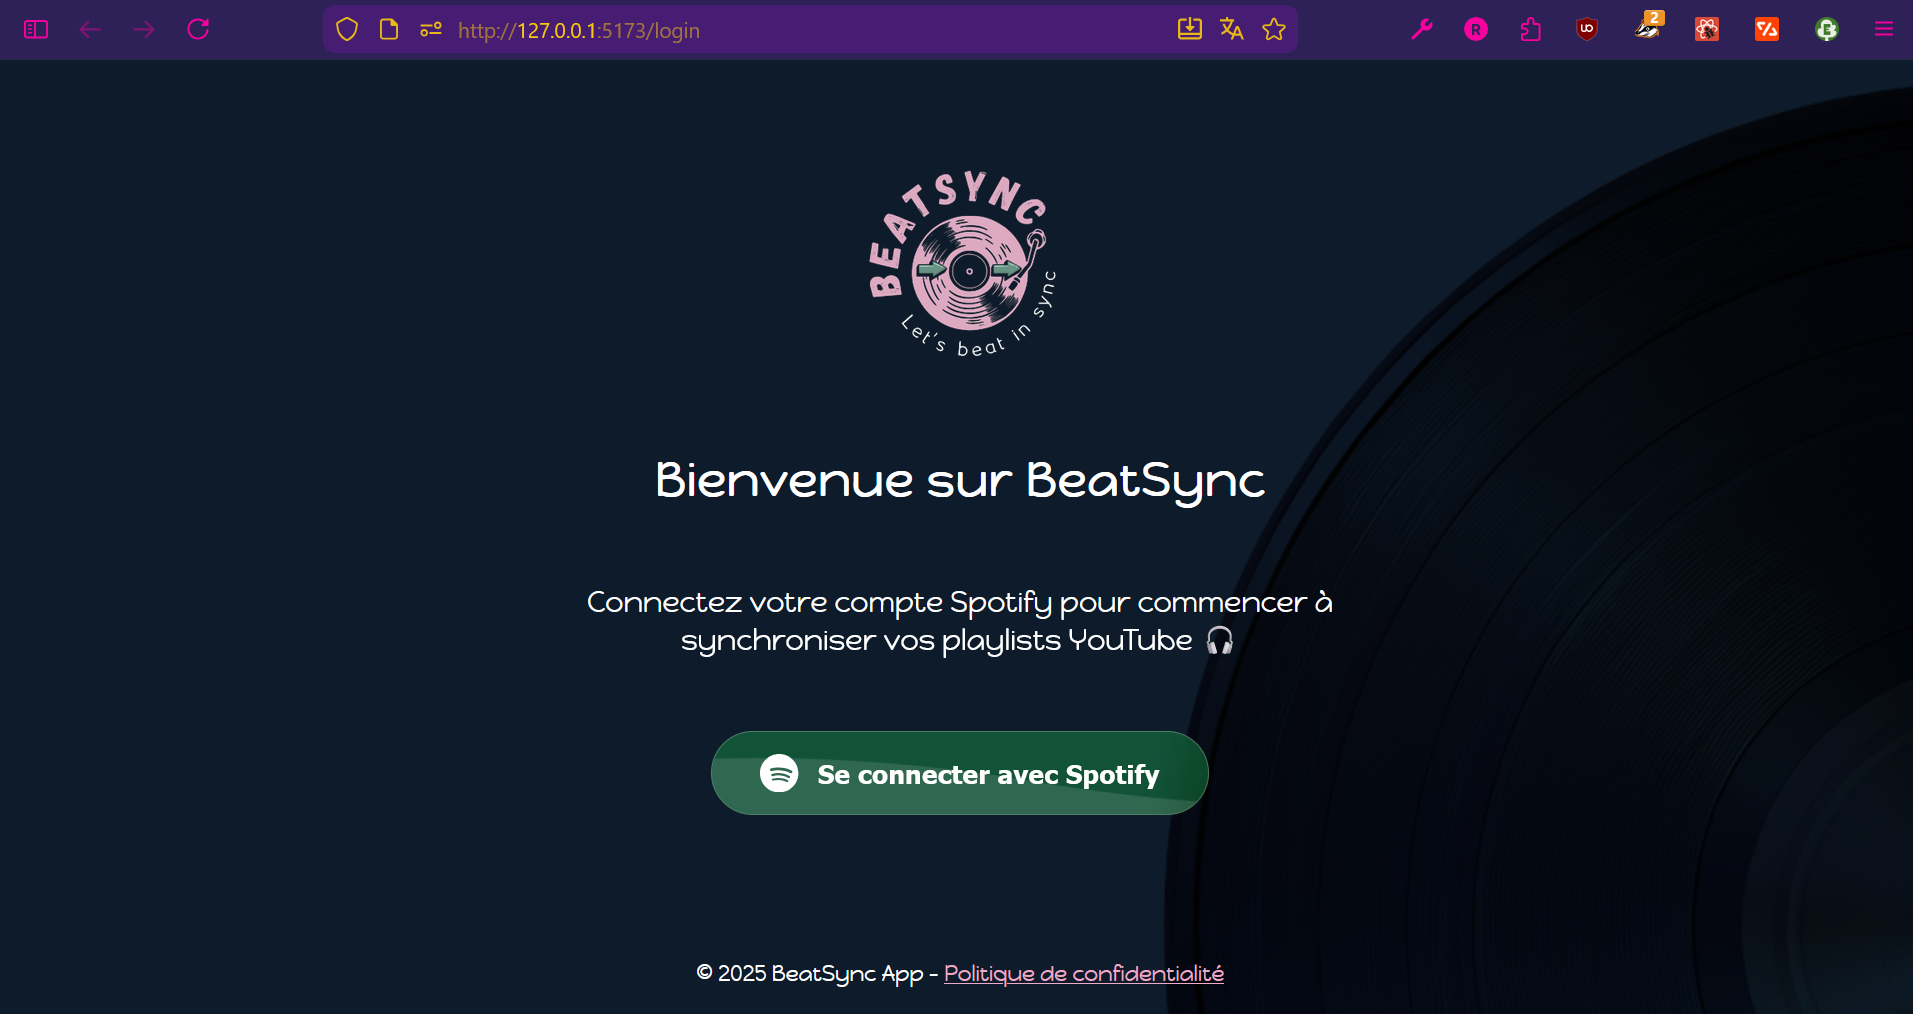
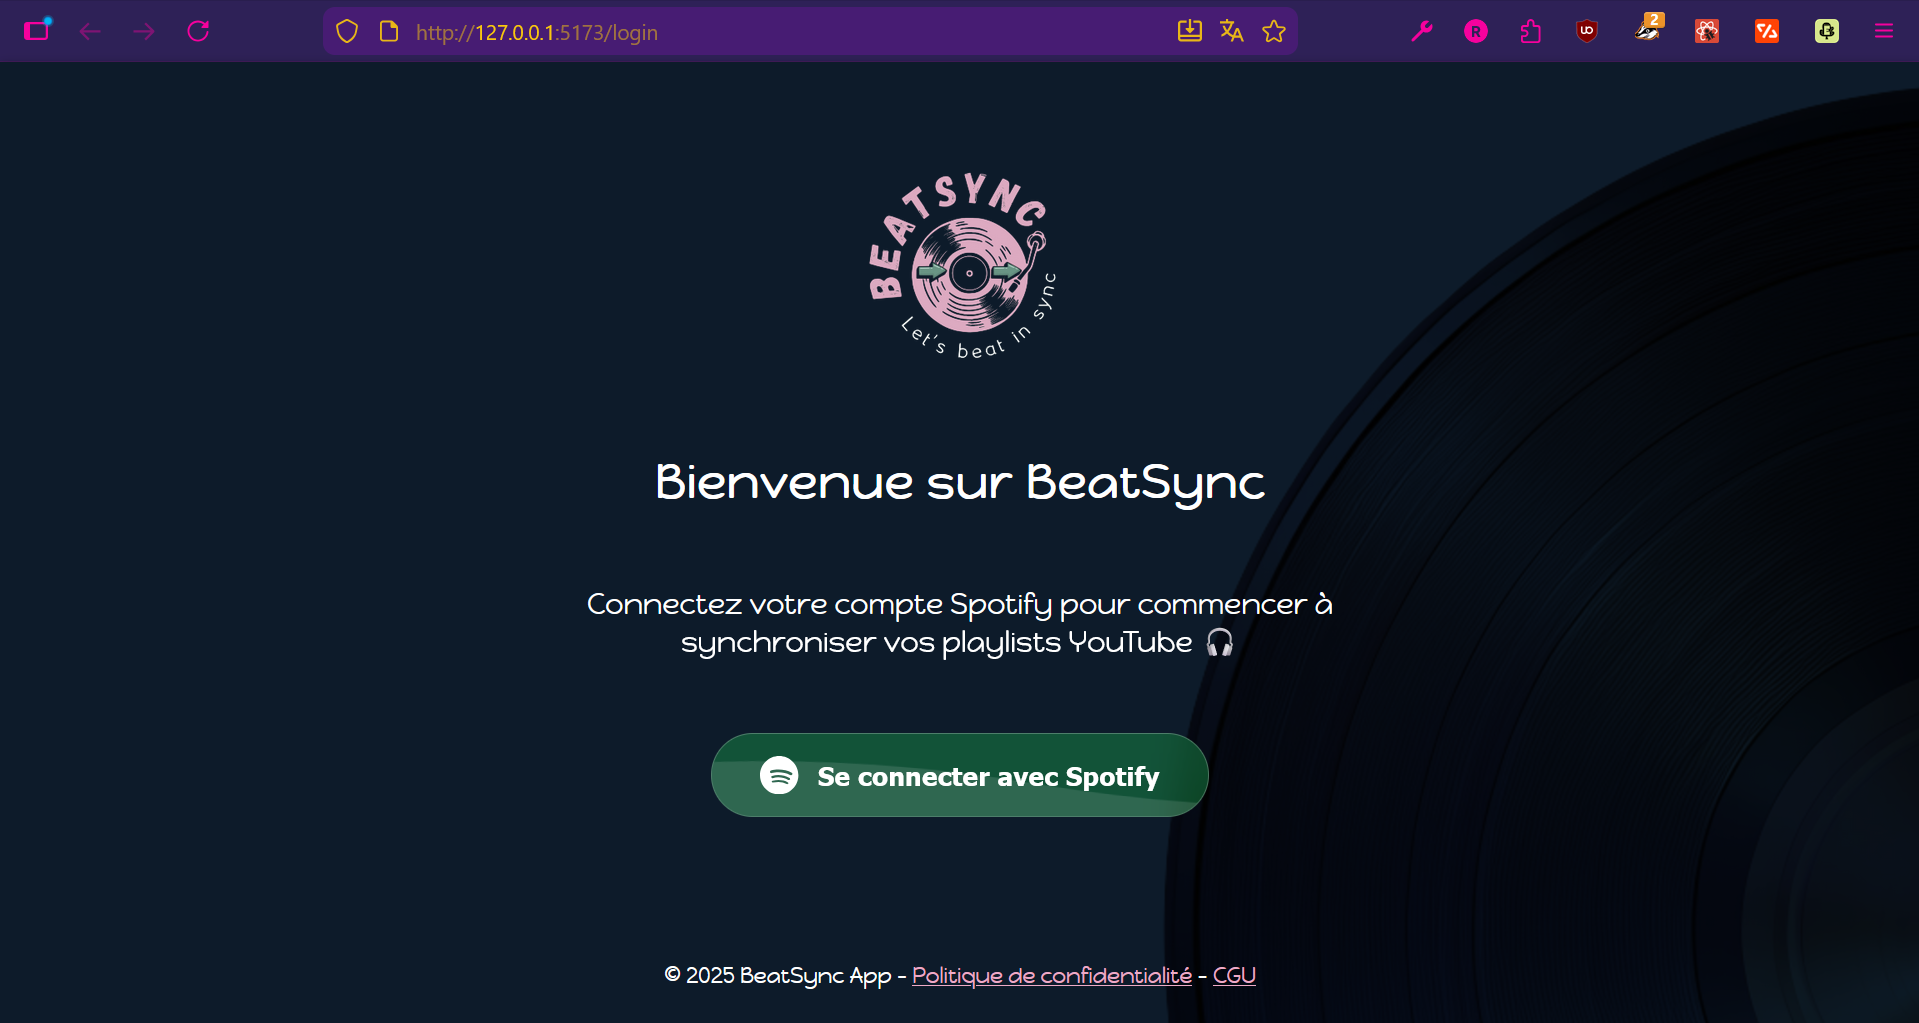
update

diff --git a/backend/config.py b/backend/config.py
@@ -1,7 +1,7 @@
 import os
 from dotenv import load_dotenv
 
-SKIP_ENV_CHECK = os.getenv("SKIP_ENV_CHECK") == "1"
+# SKIP_ENV_CHECK = os.getenv("SKIP_ENV_CHECK") == "1"
 
 # Chemin absolu vers la racine du projet
 BASE_DIR = os.path.dirname(os.path.dirname(os.path.abspath(__file__)))
@@ -50,8 +50,8 @@ required_vars = {
 
 missing = [name for name, value in required_vars.items() if not value]
 
-if missing and not SKIP_ENV_CHECK:
-    raise RuntimeError(...)
+# if missing and not SKIP_ENV_CHECK:
+#     raise RuntimeError(...)
 
-# if missing:
-#     raise RuntimeError(f"Variables manquantes : {', '.join(missing)}")
+if missing:
+    raise RuntimeError(f"Variables manquantes : {', '.join(missing)}")

diff --git a/README.md b/README.md
@@ -99,7 +99,7 @@ Le backend suit une architecture en couches :
 
 ## Prérequis
 
-- Python 3.9 ou supérieur
+- Python 3.9 ou supérieur (la version utilisée dans ce projet : 3.13.3)
 - Un compte Spotify avec une application enregistrée pour obtenir Client ID et Client Secret
 - Une clé API YouTube
 - Modules Python :
@@ -341,8 +341,6 @@ Cette page affiche le détail d’une synchronisation spécifique.
 <p align="center">
   <img src="docs/images/interface_gif.gif" width="600" />
 </p>
-
-
 
 #### Demo de BeatSync
 
